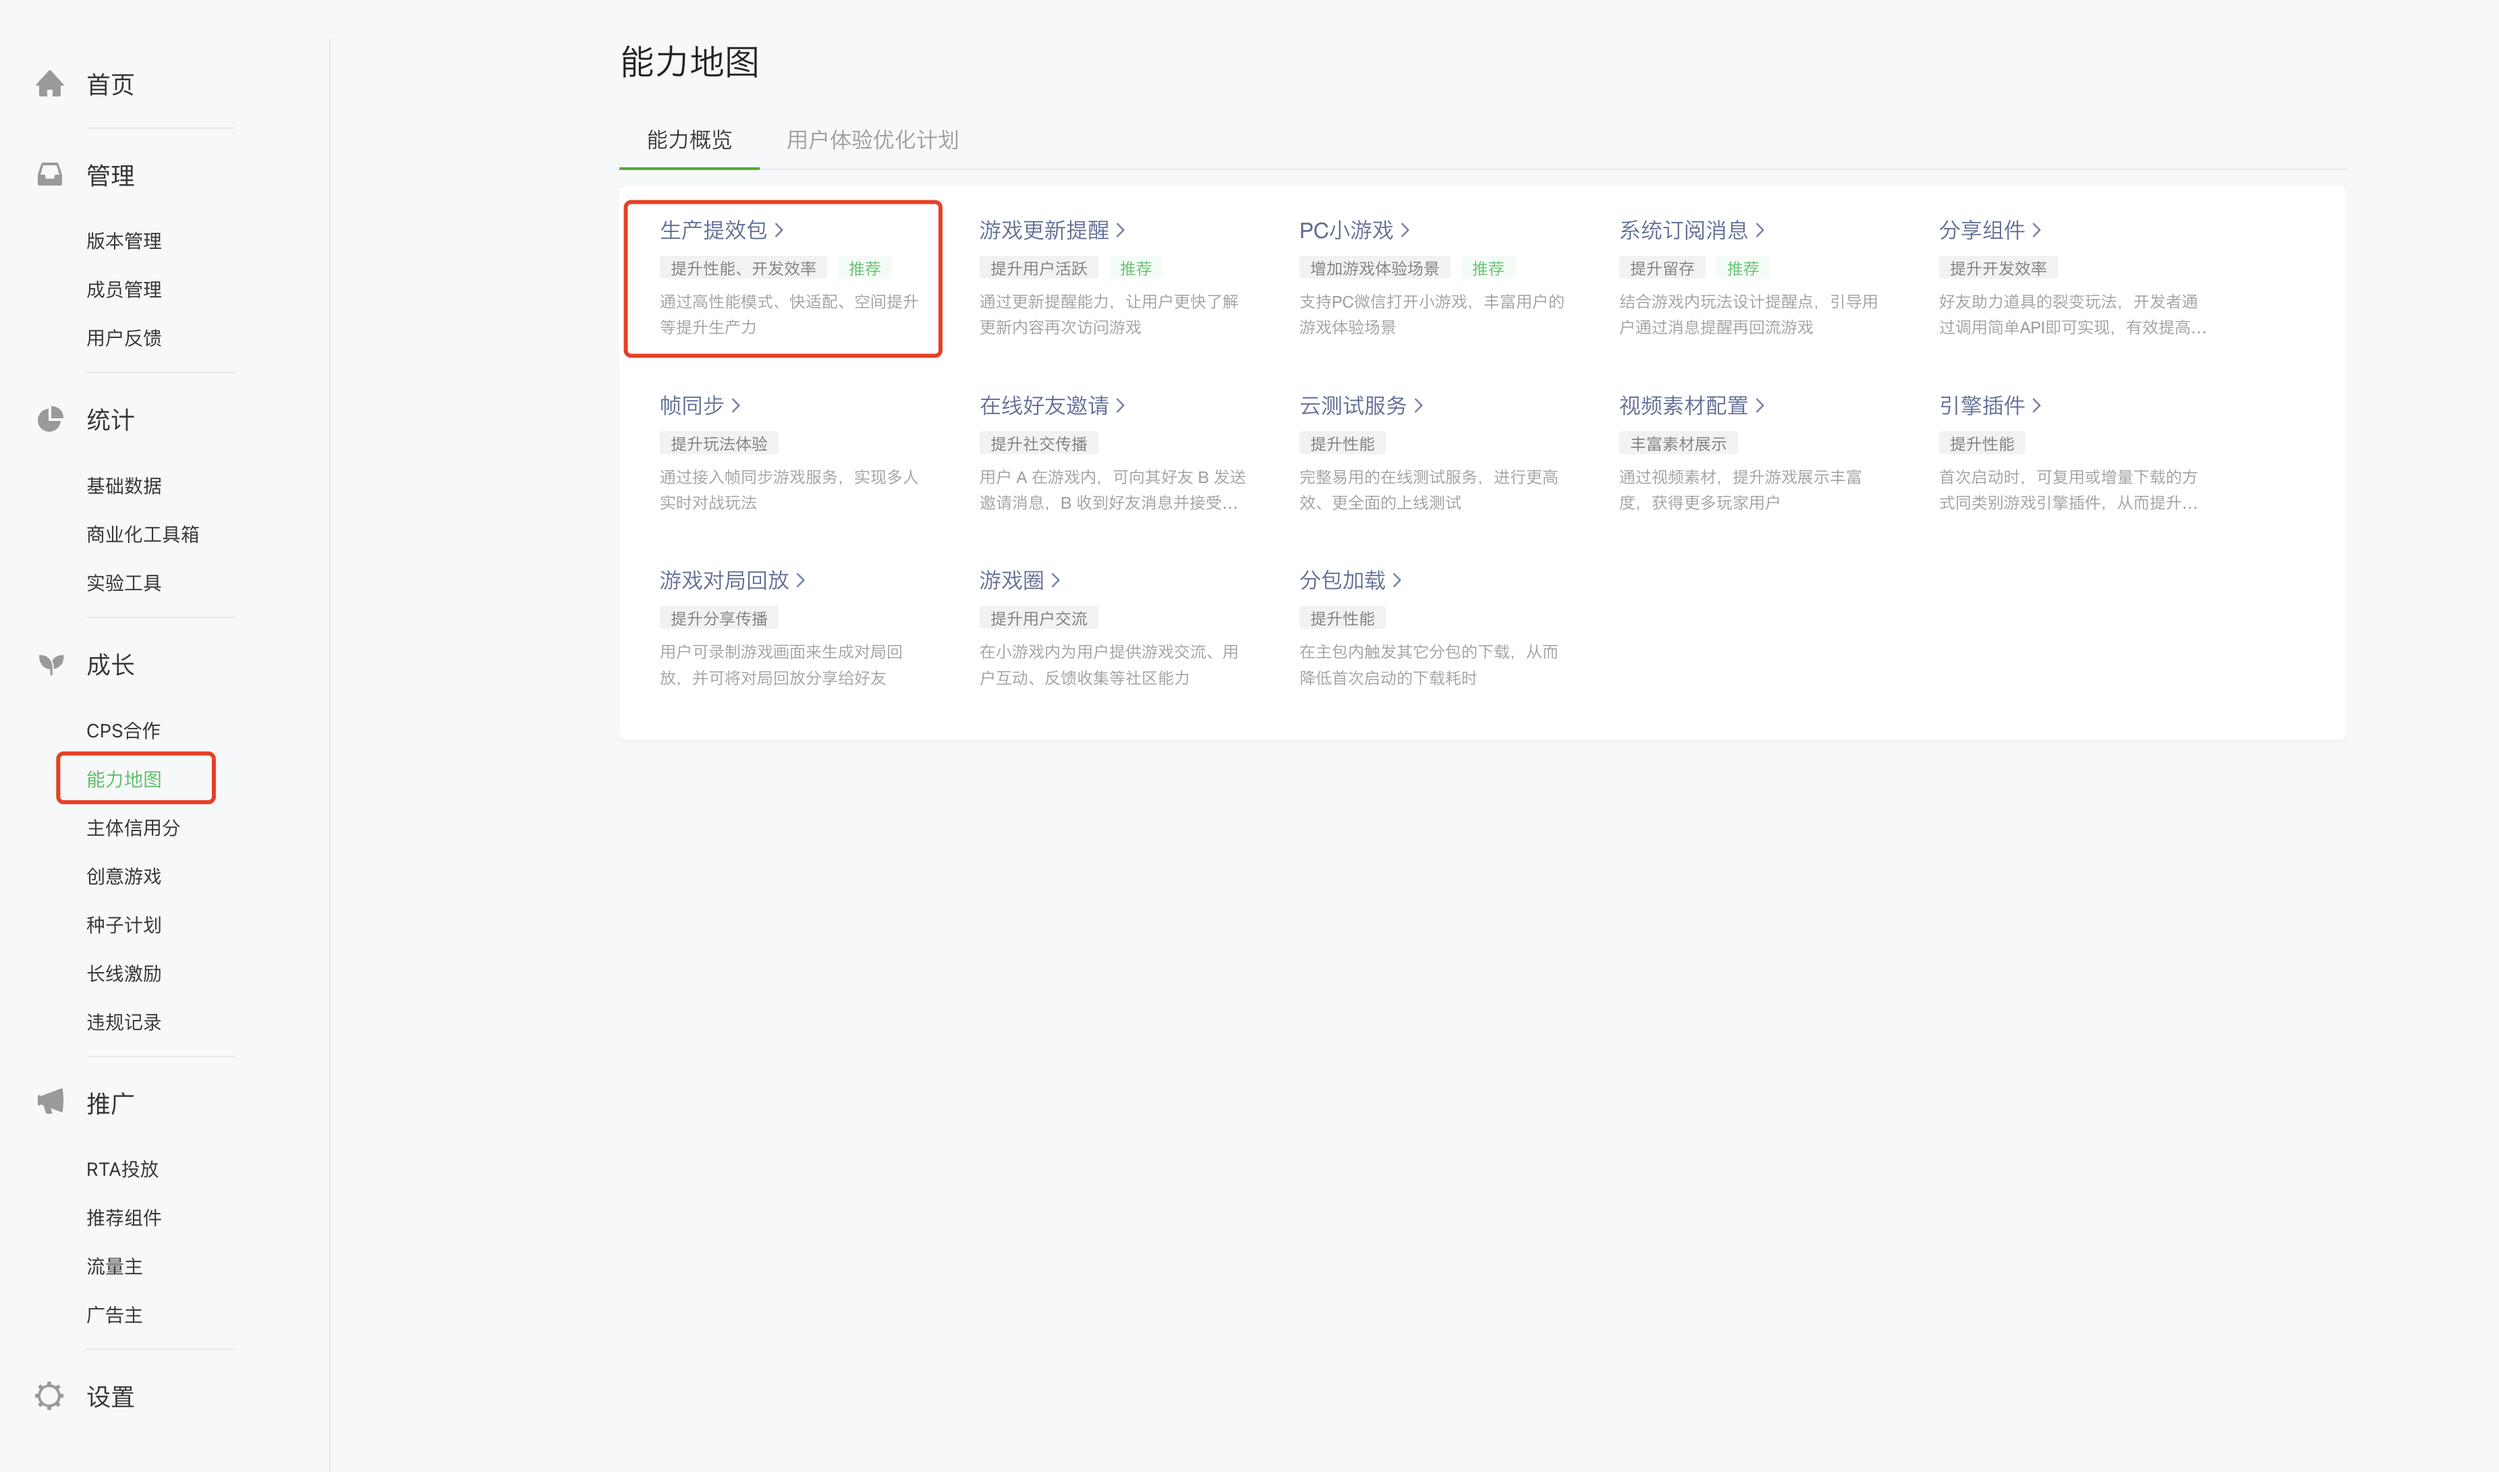
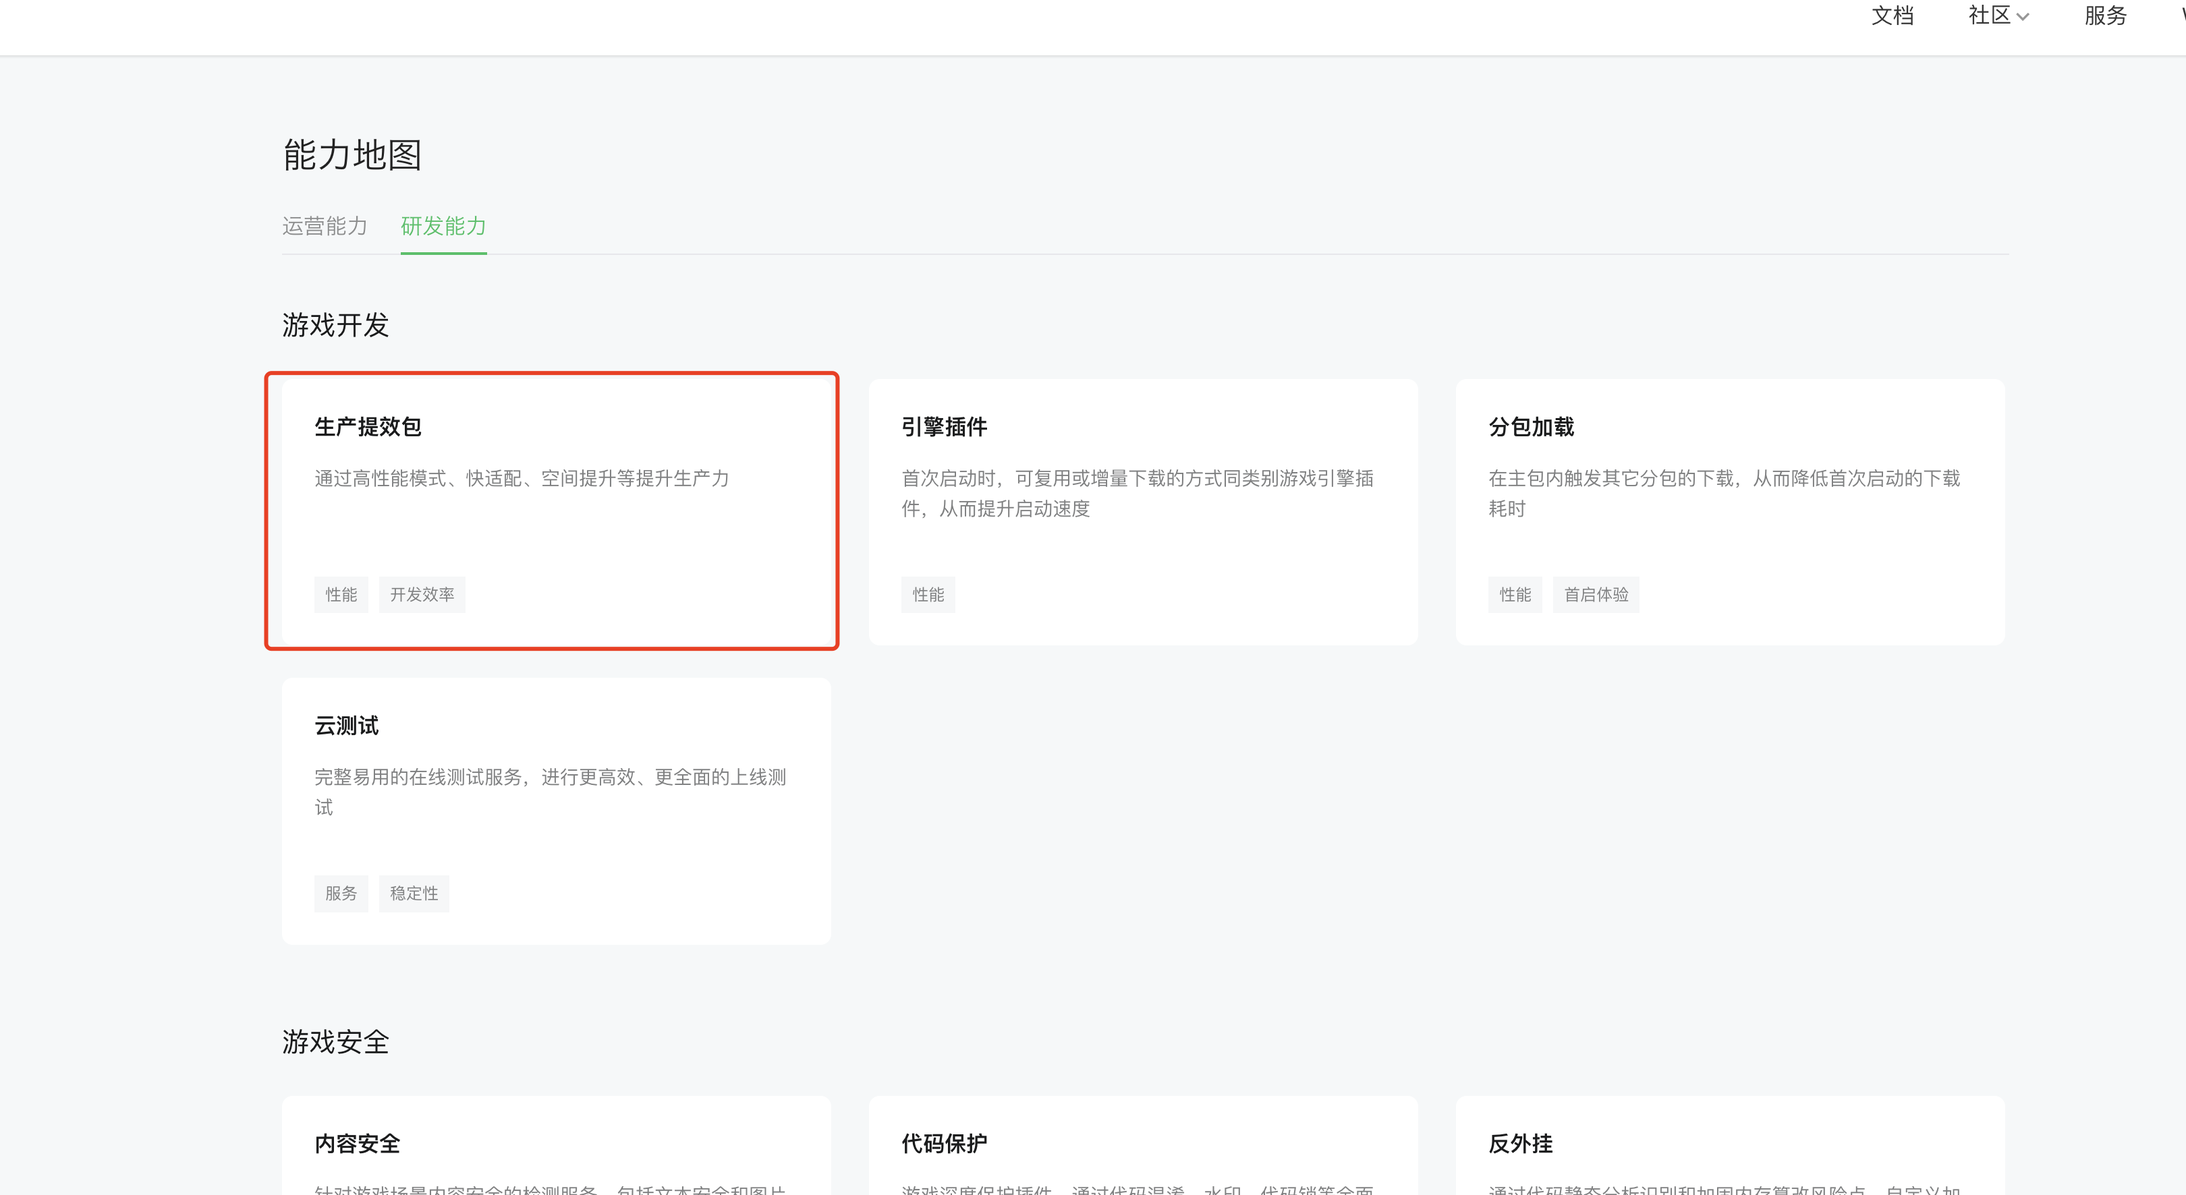
fix: content error

diff --git a/Design/PerfMeasure.md b/Design/PerfMeasure.md
@@ -30,7 +30,7 @@ Unity小游戏的启动可参考[启动流程与时序](Startup.md)
 | 游戏初始化完成 | 引擎和首场景完成，出现首个业务场景 | 通过timelog, 或日志查看“游戏启动耗时” |
 | 游戏可交互完成 | 游戏核心场景完成 | 通常定义为用户可交互的时机，可通过[启动留存上报能力](ReportStartupStat.md)上报统计。</br>eg：休闲游戏为**核心玩法**，RPG游戏为**创角** |
 | 内存峰值 | 内存峰值 | 进程内存峰值，测量方法请参考[优化Unity WebGL的内存](OptimizationMemory.md) |
-| 内存Crash运行时长| 由于内存不足而使小游戏发生Crash时，当前游戏的运行时长，表示游戏的稳定运行时长 | 通过[小游戏数据助手](https://developers.weixin.qq.com/minigame/analysis/assistant.html)查看（仅包含线上用户数据）</br> 数据路径：`数据 - 性能分析 - 运行性能 - 内存异常退出分析` |
+| 内存异常退出运行时长| 由于内存不足而使小游戏发生Crash时，当前游戏的运行时长，表示游戏的稳定运行时长 | 通过[小游戏数据助手](https://developers.weixin.qq.com/minigame/analysis/assistant.html)查看（仅包含线上用户数据）</br> 数据路径：`数据 - 性能分析 - 运行性能 - 内存异常退出分析` |
 | 帧率 | 核心玩法的平均帧率 | 测量5分钟以上游戏核心玩法帧率，取平均值 |
 | 卡顿率 | 核心玩法的平均卡顿率 | 测量5分钟以上游戏核心玩法卡顿率，取平均值 |
 
@@ -63,7 +63,7 @@ Unity小游戏的启动可参考[启动流程与时序](Startup.md)
 | 阶段 | 重点关注指标 |
 | :---: | --- |
 | 启动 | 1. 游戏初始化完成耗时</br> 2. 游戏可交互耗时 |
-| 运行 | 1. 内存峰值</br> 2. FPS均值</br> 3. 卡顿率</br> 4. 内存Crash率(iOS)</br> 5. 内存Crash运行时长 |
+| 运行 | 1. 内存峰值</br> 2. FPS均值</br> 3. 卡顿率</br> 4. 内存异常退出率(iOS)</br> 5. 内存异常退出运行时长 |
 | 兼容性问题 | 1. 逻辑异常</br> 2. 黑/白屏</br> 3. JS Error |
 
 #### 游戏类型说明
@@ -82,7 +82,7 @@ Unity小游戏的启动可参考[启动流程与时序](Startup.md)
 
 ***运行性能***
 
-重点关注：`内存峰值`、`GC后内存峰值`、`内存Crash率`、`内存Crash运行时长`
+重点关注：`内存峰值`、`GC后内存峰值`、`内存异常退出率`、`内存异常退出运行时长`
 
 <img src='../image/performance-standard/ios_running_performance.png'/>
 

diff --git a/README.md b/README.md
@@ -1,6 +1,6 @@
-# 微信小游戏团结/Unity适配方案
+# 微信小游戏Unity/团结引擎适配方案
 
-欢迎使用 Unity WebGL 小游戏适配方案(又称团结Unity快适配)，本方案设计目的是**降低 Unity 游戏转换到微信小游戏的开发成本**。基于WebAssembly技术，无需更换Unity引擎与重写核心代码的情况下将原有游戏项目适配到微信小游戏。
+欢迎使用 Unity WebGL 小游戏适配方案(又称Unity/团结引擎快适配)，本方案设计目的是**降低 Unity 游戏转换到微信小游戏的开发成本**。基于WebAssembly技术，无需更换Unity引擎与重写核心代码的情况下将原有游戏项目适配到微信小游戏。
 
 **官方文档：[https://wechat-miniprogram.github.io/minigame-unity-webgl-transform/](https://wechat-miniprogram.github.io/minigame-unity-webgl-transform/)**
 
@@ -20,7 +20,7 @@
 
 ## 安装与使用
 
-下载 [Unity插件](https://game.weixin.qq.com/cgi-bin/gamewxagwasmsplitwap/getunityplugininfo?download=1)并导入至游戏项目中，版本更新请查看[更新日志](https://wechat-miniprogram.github.io/minigame-unity-webgl-transform/CHANGELOG.html)，团结版 or Package安装请查阅[SDK安装指引](https://wechat-miniprogram.github.io/minigame-unity-webgl-transform/Design/SDKInstaller.html)
+下载 [Unity插件](https://game.weixin.qq.com/cgi-bin/gamewxagwasmsplitwap/getunityplugininfo?download=1)并导入至游戏项目中，版本更新请查看[更新日志](https://wechat-miniprogram.github.io/minigame-unity-webgl-transform/CHANGELOG.html)，团结版或Package安装请查阅[SDK安装指引](https://wechat-miniprogram.github.io/minigame-unity-webgl-transform/Design/SDKInstaller.html)
 
 - 请查阅[推荐引擎版本](https://wechat-miniprogram.github.io/minigame-unity-webgl-transform/Design/UnityVersion.html)，安装时选择WebGL组件
 - 前往[微信开发者工具下载](https://developers.weixin.qq.com/miniprogram/dev/devtools/stable.html)安装Stable版开发者工具【注意：为保证稳定性，请勿使用小游戏版 Minigame Build】

diff --git a/Design/Evaluation.md b/Design/Evaluation.md
@@ -14,16 +14,16 @@
 
 版本建议：
 
-Unity版本支持从2018到最新的2021版本
+Unity版本支持从2018到最新的2022版本
 
-建议使用LTS版本，尽量使用2021(更快编译和更小体积、压缩纹理、压缩音频等支持)
+建议使用LTS版本，尽量使用2022(更快编译和更小体积、压缩纹理、压缩音频等支持)
  
 
 ### 3. 能力支持
 | 能力 |是否支持  |解决方案  |
 | --- | --- |--- |
 | Unity基础模块 |支持 |支持动画、物理、AI、UI等基础模块|
-| 渲染管线 |支持 |支持标准渲染管线、URP，但依赖WebGL2.0的特性处于Beta测试|
+| 渲染管线 |支持 |支持标准渲染管线、URP|
 | 资源加载  | 支持 | Addressable、AssetBundle网络异步加载 |
 | Lua脚本 |支持 |支持标准Lua与常见binding(如xlua, tolua等)， 不支持Luajit。需根据实际游戏在真机验证性能|
 | PureTS |支持 | iOS系统需14.5以上, 支持JIT|
@@ -32,7 +32,7 @@ Unity版本支持从2018到最新的2021版本
 | 网络系统  | 需调整 |HTTP使用UnityWebRequest，TCP使用WX SDK适配或WebSocket通信替代(如开源的UnityWebSocket插件)，UDP使用WX SDK适配|
 | 渲染接口 | 支持 |仅支持WebGL1.0(相当于OpenGLES2.0)，2.0支持处于Beta测试阶段|
 | 多线程  | 不支持 | 删除多线程用法，使用异步等其他替代方式 |
-| 文件API | 需调整 |不支持System.File接口，但可使用微信小游戏WX SDK实现文件存储，大小限制为200MB。玩家存档请使用服务器或云开发；AssetsBundle缓存适配插件已自动支持|
+| 文件API | 需调整 |不支持System.File接口，但可使用微信小游戏WX SDK实现文件存储，[大小限制为200MB(最高可开通1GB)](FileCache.md)。玩家存档请使用服务器或云开发；AssetsBundle缓存适配插件已自动支持|
 
 
 

diff --git a/Design/SDKInstaller.md b/Design/SDKInstaller.md
@@ -14,13 +14,13 @@
 
 ### 安装指南
 
-`打开游戏工程` -> `团结/Unity Editor 菜单栏` -> `Package Manager` -> `右上方 “+”` -> `Add package from git URL`
+`打开游戏工程` -> `Unity/团结引擎 Editor 菜单栏` -> `Package Manager` -> `右上方 “+”` -> `Add package from git URL`
 URL地址为：
 ```
 https://github.com/wechat-miniprogram/minigame-tuanjie-transform-sdk.git
 ```
 
-国内Gitee镜像：
+或国内Gitee镜像：
 ```
 https://gitee.com/wechat-minigame/minigame-tuanjie-transform-sdk.git
 ```
@@ -37,7 +37,7 @@ https://gitee.com/wechat-minigame/minigame-tuanjie-transform-sdk.git
 
 ## 目录结构说明
 
-我们希望SDK与工程代码节藕，如此一来也更方便开发者的代码版本维护。因此 PackageManager 模式下，微信SDK内容将不再存放在游戏工程的Assets目录中。为兼容需要，仍然会自动在 Assets 目录下创建 `WX-WASM-SDK-V2` 数据目录，如需保持相关的应用配置应始终保留该目录内容。
+我们希望SDK与工程代码解耦，如此一来也更方便开发者的代码版本维护。因此 PackageManager 模式下，微信SDK内容将不再存放在游戏工程的Assets目录中。为兼容需要，仍然会自动在 Assets 目录下创建 `WX-WASM-SDK-V2` 数据目录，如需保持相关的应用配置应始终保留该目录内容。
 
 ## 常见问题
 

diff --git a/Design/PerfOptimization.md b/Design/PerfOptimization.md
@@ -55,20 +55,22 @@ Unity WebGL导出形式相对于原生APP应用，需要开发者更关注性能
 * 释放不使用的资源
 * 发布前使用压缩纹理工具进行优化
 * 音频资源尽可能勾选强制单声道
+* iOS开启高性能+模式
   
 更多信息请阅读: 
-*  [优化Unity WebGL的内存](OptimizationMemory.md)
-*  [压缩纹理优化](CompressedTexture.md)
-*  [Unity WebGL内存原理详解](https://gameinstitute.qq.com/community/detail/112321)
+* [iOS 高性能与高性能+模式](iOSOptimization.md)
+* [优化Unity WebGL的内存](OptimizationMemory.md)
+* [压缩纹理优化](CompressedTexture.md)
+* [Unity WebGL内存原理详解](https://gameinstitute.qq.com/community/detail/112321)
 
 ### 3.5 降低CPU消耗
 * iOS使用高性能模式
 * 尽量使用Android CPU Profiler在小游戏真机环境Profie计算瓶颈
 * 提前在Unity环境使用Unity Profiler发现问题
 * 物理计算较重的游戏使用Fixed Timestep控制计算频率
-* 在中低端机型限制帧率已减轻设备发烫
+* 在中低端机型限制帧率以减轻设备发烫
 
 更多信息请阅读:
-* [iOS高性能模式](iOSOptimization.md)
+* [iOS 高性能与高性能+模式](iOSOptimization.md)
 * [使用Android CPU Profiler性能调优](AndroidProfile.md)
 * [使用Unity Profiler性能调优](UnityProfiler.md)

diff --git a/Design/UsingMemoryProfiler.md b/Design/UsingMemoryProfiler.md
@@ -13,7 +13,7 @@
 
 3. 导出内存堆栈数据
 - 方式1：点击性能面板左上角的"ProfilingMemory Dump" 完成导出（开启性能面板可通过修改unity-namespace.js-enableProfileStats或C#调用OpenProfileStats）
-- 方式2：者在微信开发者工具中选择gameContext, 并在Console输入命令: GameGlobal.memprofiler.onDump()。
+- 方式2：在微信开发者工具中选择gameContext, 并在Console输入命令: GameGlobal.memprofiler.onDump()。
 <img src='../image/memoryprofiler2.png' width="600"/>
 
 4. 微信开发者工具-“游戏缓存目录/usr/alloc_used.csv”（Android位于data/com.tencent.mm/MicroMsg/wxanewfiles/最近使用时间的目录）拖拽并以csv方式导入sqlite数据库， 推荐使用[DB Browser for SQLite](https://sqlitebrowser.org/)

diff --git a/Design/LaunchOperaDocument.md b/Design/LaunchOperaDocument.md
@@ -48,7 +48,7 @@ lacop watch
 
 #### Step4 预览默认剧情
 
-使用 `微信开发者工具` 打开 `/minigame` 目录，AppID 请切换成当前登陆用户有开发权限的小游戏AppID，如果AppID是首次打开后会要求添加用于调试的小游戏插件，按照提示申请权限，若一切正常，你将在工具完全载入资源后看到默认的启动剧情内容。
+使用 `微信开发者工具` 打开 `/minigame` 目录，AppID 请切换成当前登录用户有开发权限的小游戏AppID，如果AppID是首次打开后会要求添加用于调试的小游戏插件，按照提示申请权限，若一切正常，你将在工具完全载入资源后看到默认的启动剧情内容。
 
 #### Step5 对剧本修改
 

diff --git a/Design/iOSOptimization.md b/Design/iOSOptimization.md
@@ -71,7 +71,7 @@
 
 iOS 端小游戏高性能模式适用于遇到 iOS 环境运行性能不足，运行发烫的小游戏。
 
-- 需要该能力的开发者登录[微信公众平台](https://mp.weixin.qq.com) -> 首页能力地图模块 -> 点击进入"生产提效包" -> 点击开通高性能模式。
+- 需要该能力的开发者登录[微信公众平台](https://mp.weixin.qq.com) -> 能力地图 -> 研发能力 -> 生产提效包 -> 点击开通高性能模式。
   <img src="../image/mp_addplugin.png"/>
 - 开通成功后，过配置 game.json 的 iOSHighPerformance 为 true 则可进入高性能模式，通过去掉此开关可以正常回退到普通模式，以便两种模式对比。
 

diff --git a/Design/Guide.md b/Design/Guide.md
@@ -65,7 +65,7 @@
 
 > 相关手册：[WX SDK 平台能力适配](WX_SDK.md) 、[屏幕适配](fixScreen.md) 、 [输入法适配](InputAdaptation.md) 、 [排行榜与微信关系数据](OpenData.md)
 
-		Unity 游戏接入微信小游戏平台将获得微信提供的 API 以及开放能力，开发者根据需要进行按需接入。微信 API 支持的能力包括登陆、设备（存储、震动）、开放数据、广告等等。
+		Unity 游戏接入微信小游戏平台将获得微信提供的 API 以及开放能力，开发者根据需要进行按需接入。微信 API 支持的能力包括登录、设备（存储、震动）、开放数据、广告等等。
 
 
 

diff --git a/Design/UsingNetworking.md b/Design/UsingNetworking.md
@@ -1,6 +1,6 @@
 # 网络通信适配
 
-由于安全性的影响，JavaScript 代码没有直接访问 IP 套接字来实现网络连接。因此，该.NET 网络类（System.Net 命名空间中的一切，特别是**_System.Net.Sockets_**）在 WebGL 中不能工作。UnityEngine.Network\* 类也是这样，编译 WebGL 时将找不到这些类。
+由于安全性的影响，JavaScript 代码没有直接访问 IP 套接字来实现网络连接。因此，该.NET 网络类（System.Net 命名空间中的一切，特别是**System.Net.Sockets**）在 WebGL 中不能工作。UnityEngine.Network\* 类也是这样，编译 WebGL 时将找不到这些类。
 
 ## HTTP 通信
 
